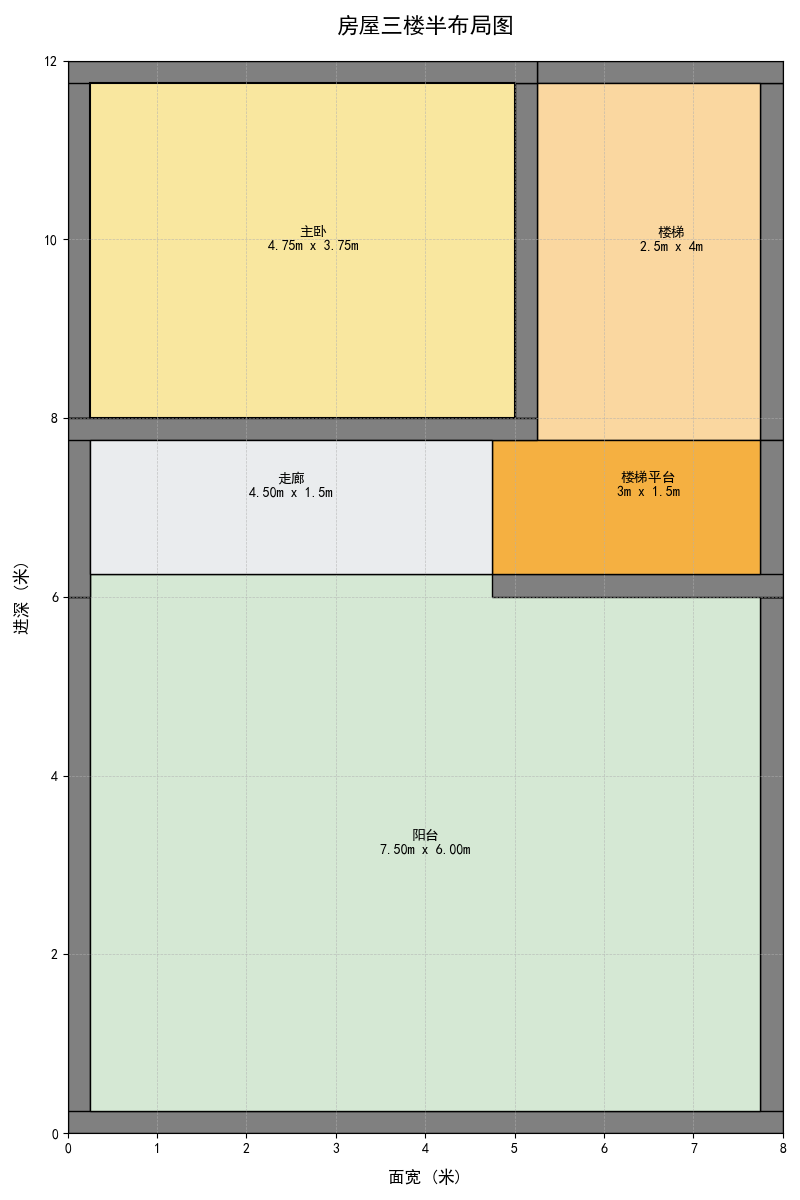
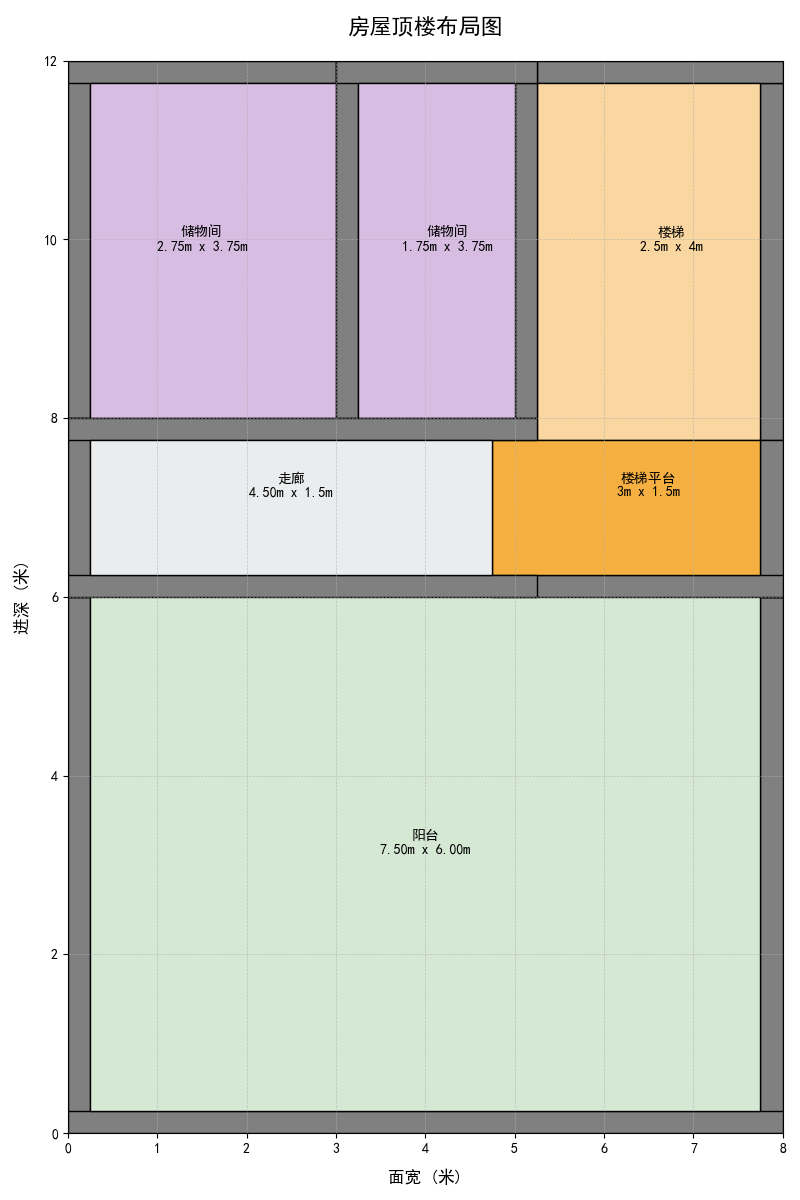
feat(floor): add floor_3nd.py and update floor_3_5nd.py

diff --git a/floor_3nd.py b/floor_3nd.py
@@ -21,7 +21,7 @@ ax.set_ylim(0, 12)  # 进深12米
 ax.set_aspect('equal')  # 确保比例一致
 
 # 添加标题和网格
-plt.title("房屋顶楼布局图", fontsize=16, fontweight='bold', pad=20)
+plt.title("房屋三楼布局图", fontsize=16, fontweight='bold', pad=20)
 plt.grid(visible=True, which='both', linestyle='--', linewidth=0.5, alpha=0.7)
 
 # 定义各功能区的颜色
@@ -36,7 +36,6 @@ colors = {
     '走廊': '#EAECEE',  # 浅灰蓝
     '楼梯平台': '#F5B041',  # 明亮橙色
     '厨房': '#F9E79F',  # 柠檬黄（厨房）
-    '阳台': '#D5E8D4',  # 浅薄荷绿（阳台）
 }
 
 # 墙壁厚度
@@ -79,34 +78,7 @@ draw_wall(5.5 - wall_thickness, 8 - wall_thickness, 2.5 + wall_thickness, 4 + wa
 ax.add_patch(
     patches.Rectangle((5.5 - wall_thickness, 8 - wall_thickness), 2.5, 4,
                       facecolor=colors['楼梯'], edgecolor='black', label='楼梯'))
-# 文字水平居中
 ax.text(6.75, 10, "楼梯\n2.5m x 4m", ha='center', va='center', fontsize=10, color='black')
-
-# 储物间（左侧）
-draw_wall(0, 8, 3, 4, adjacent=['bottom', 'right'])
-ax.add_patch(patches.Rectangle((wall_thickness, 8), 3 - wall_thickness, 4 - wall_thickness,
-                               facecolor=colors['储物间'], edgecolor='black', label='储物间'))
-# 文字水平居中
-ax.text(1.5, 10, f"储物间\n{3 - wall_thickness:.2f}m x {4 - wall_thickness:.2f}m",
-        ha='center', va='center', fontsize=10)
-
-# 储物间（中间）
-draw_wall(3, 8, 2.5 - wall_thickness, 4, adjacent=['bottom'])
-ax.add_patch(
-    patches.Rectangle((3 + wall_thickness, 8), 2.5 - 3 * wall_thickness, 4 - wall_thickness,
-                      facecolor=colors['储物间'], edgecolor='black', label='储物间'))
-# 文字水平居中
-ax.text(4.25, 10, f"储物间\n{2.5 - 3 * wall_thickness:.2f}m x {4 - wall_thickness:.2f}m",
-        ha='center', va='center', fontsize=10)
-
-# 阳台：位于最前面的区域
-draw_wall(0, 0, 8, 6.5 - wall_thickness)  # 排除底部墙壁（大门区域）
-ax.add_patch(
-    patches.Rectangle((wall_thickness, wall_thickness), 8 - 2 * wall_thickness, 6.5 - wall_thickness * 2,
-                      facecolor=colors['阳台'], edgecolor='black', label='阳台'))
-# 文字水平居中
-ax.text(4, 3.25, f"阳台\n{8 - 2 * wall_thickness:.2f}m x {6.5 - wall_thickness * 2:.2f}m",
-        ha='center', va='center', fontsize=10)
 
 # 楼梯平台：宽3米，长1.5米
 draw_wall(5 - wall_thickness, 6.5 - wall_thickness * 2, 3 + wall_thickness, 1.5 + wall_thickness * 2,
@@ -114,27 +86,52 @@ draw_wall(5 - wall_thickness, 6.5 - wall_thickness * 2, 3 + wall_thickness, 1.5 
 ax.add_patch(
     patches.Rectangle((5 - wall_thickness, 6.5 - wall_thickness), 3, 1.5,
                       facecolor=colors['楼梯平台'], edgecolor='black', label='楼梯平台'))
-# 文字水平居中
 ax.text(6.5, 7.25, "楼梯平台\n3m x 1.5m", ha='center', va='center', fontsize=10, color='black')
 
-# 走廊：剩余部分
-draw_wall(0, 6.5 - 2 * wall_thickness, 5 + wall_thickness, 1.5 + 2 * wall_thickness,
-          exclude=['right', ], adjacent=['right', ])
+# 其他走廊：剩余部分
+draw_wall(0, 6.5 - wall_thickness, 5 + wall_thickness, 1.5 + wall_thickness,
+          exclude=['right', 'bottom'], adjacent=['right', 'bottom'])
 ax.add_patch(patches.Rectangle((wall_thickness, 6.5 - wall_thickness), 5 - wall_thickness * 2, 1.5,
                                facecolor=colors['走廊'], edgecolor='black'))
-# 文字水平居中
 ax.text(2.5, 7.25, f"走廊\n{5 - wall_thickness * 2:.2f}m x 1.5m",
         ha='center', va='center', fontsize=10, color='black')
+
+# 客厅：位于最前面的区域，右侧与楼梯平台之间有墙
+draw_wall(0, 0, 4, 6.5 - wall_thickness, exclude=['top'])  # 排除顶部墙壁
+ax.add_patch(
+    patches.Rectangle((wall_thickness, wall_thickness), 4 - 2 * wall_thickness, 6.5 - wall_thickness * 2,
+                      facecolor=colors['客厅'], edgecolor='black', label='客厅'))
+ax.text(2, 3.25, f"客厅\n{4 - 2 * wall_thickness:.2f}m x {6.5 - wall_thickness * 2:.2f}m",
+        ha='center', va='center', fontsize=10, color='black', fontweight='bold')
+
+# 卫生间（主卧上方）
+draw_wall(4 - wall_thickness, 4, 4 + wall_thickness, 2 + wall_thickness,
+          exclude=['left'])  # 排除左侧墙壁
+ax.add_patch(
+    patches.Rectangle((4, 4.5 - wall_thickness), 4 - wall_thickness, 2 - wall_thickness,
+                      facecolor=colors['卫生间'], edgecolor='black', linewidth=1.5))
+ax.text(6, 5.5, f"卫生间\n{4 - wall_thickness:.2f}m x {2 - wall_thickness}m",
+        ha='center', va='center', fontsize=10, color='black', fontweight='bold')
+
+# 次卧（右下角）
+draw_wall(4 - wall_thickness, 0, 4 + wall_thickness, 4 + wall_thickness,
+          exclude=['top'])  # 排除顶部墙壁
+ax.add_patch(
+    patches.Rectangle((4, wall_thickness), 4 - wall_thickness, 4.5 - 3 * wall_thickness,
+                      facecolor=colors['次卧'], edgecolor='black', linewidth=1.5))
+ax.text(6, 2.25, f"次卧\n{4 - wall_thickness:.2f}m x {4.5 - 3 * wall_thickness:.2f}m",
+        ha='center', va='center', fontsize=10, color='black', fontweight='bold')
+
+# 主卧（楼梯左侧）
+draw_wall(0, 8, 5.5 - wall_thickness, 4, exclude=['bottom'])  # 排除底部墙壁
+ax.add_patch(patches.Rectangle((wall_thickness, 8), 5.5 - 3 * wall_thickness, 4 - wall_thickness,
+                               facecolor=colors['主卧'], edgecolor='black', linewidth=1.5))
+ax.text(2.75, 10, f"主卧\n{5.5 - 3 * wall_thickness}m x {4 - wall_thickness}m",
+        ha='center', va='center', fontsize=10, color='black', fontweight='bold')
 
 # 显示坐标轴标签
 plt.xlabel("面宽 (米)", fontsize=12, labelpad=10)
 plt.ylabel("进深 (米)", fontsize=12, labelpad=10)
-
-# # 添加图例
-# handles, labels = [], []
-# for region, color in colors.items():
-#     handles.append(patches.Patch(color=color, label=region))
-# plt.legend(handles=handles, loc='upper left', bbox_to_anchor=(1.05, 1), fontsize=10)
 
 # 显示图形
 plt.tight_layout()
